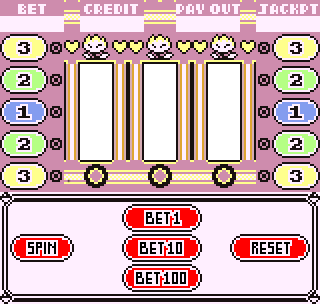
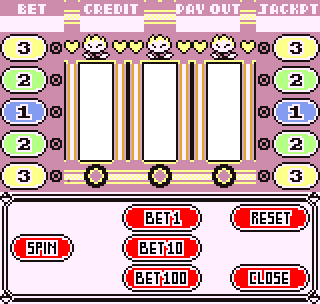
Added exit button

Changed region(s): [[0.7188, 0.6513, 0.9688, 0.977]]

diff --git a/slotmachine/Scripts/game.ts b/slotmachine/Scripts/game.ts
@@ -7,6 +7,7 @@ var background: createjs.Bitmap;
 var spinButton: createjs.Bitmap;
 var disabledButton: createjs.Bitmap;
 var resetButton: createjs.Bitmap;
+var closeButton: createjs.Bitmap;
 var bet1Button: createjs.Bitmap;
 var bet10Button: createjs.Bitmap;
 var bet100Button: createjs.Bitmap;
@@ -93,12 +94,22 @@ function createUI(): void {
     //Reset Button
     resetButton = new createjs.Bitmap("assets/images/ResetButton.png");
     resetButton.x = 230;
-    resetButton.y = 234;
+    resetButton.y = 204;
     game.addChild(resetButton);
 
     resetButton.addEventListener("click", resetAll);
     resetButton.addEventListener("mouseover", resetButtonOver);
     resetButton.addEventListener("mouseout", resetButtonOut);
+
+    //Close Button
+    closeButton = new createjs.Bitmap("assets/images/CloseButton.png");
+    closeButton.x = 230;
+    closeButton.y = 264;
+    game.addChild(closeButton);
+
+    closeButton.addEventListener("click", closeGame);
+    closeButton.addEventListener("mouseover", closeButtonOver);
+    closeButton.addEventListener("mouseout", closeButtonOut);
 
     //Bet 1 Button
     bet1Button = new createjs.Bitmap("assets/images/Bet1Button.png");
@@ -163,81 +174,90 @@ function createUI(): void {
     game.addChild(playerMoneyText);
 } //function createUI ends
 
-// Event handlers
+// Event handlers/////////////////////////////////////////////////////////////////////////////////
+/* This function sets the reset button to be 0% transparent when the mouse leaves it*/
 function spinButtonOut() {
     spinButton.alpha = 1.0;
 } //function spinButtonOut ends
 
+/* This function sets the spin button to be 99% transparent when the mouse is hovering over it*/
 function spinButtonOver() {
     spinButton.alpha = 0.01;
 } //function spinButtonOut ends
 
+/* This function spins the slot machine*/
 function spinReels() {
-    // Add Spin Reels code here
-    if (playerMoney == 0) {
-        if (confirm("You ran out of Money! \nDo you want to play again?")) {
-            resetAll();
-            showPlayerStats();
-        } //if ends
-    } //if ends
-    else if (playerBet > playerMoney) {
-        alert("You don't have enough Money to place that bet.");
-    } //else if ends
-    else if (playerBet <= playerMoney) {
-        //get what was spun
-        spinResult = Reels();
+    //get what was spun
+    spinResult = Reels();
 
-        //This code is for debugging purposes -- remove before completion!
-        fruits = spinResult[0] + " - " + spinResult[1] + " - " + spinResult[2];
-        console.log(fruits);
+    //get the respecive images for the spin results
+    for(var tile = 0; tile < 3; tile++) {
+        tileContainer[tile].removeAllChildren(); //clear the tileContainer
 
-        for (var tile = 0; tile < 3; tile++) {
-            tileContainer[tile].removeAllChildren();
+        tiles[tile] = new createjs.Bitmap("assets/images/" + spinResult[tile] + ".png");
 
-            tiles[tile] = new createjs.Bitmap("assets/images/" + spinResult[tile] + ".png");
+        tiles[tile].y = 32; //center the image on the reels
 
-            console.log(tiles[tile]); //debugging code
-
-            tiles[tile].y = 32;
-
-            tileContainer[tile].addChild(tiles[tile]);
-        } //for ends
-        determineWinnings();
-        showPlayerStats();
-        betValidate();
-    } //else if ends
+        tileContainer[tile].addChild(tiles[tile]); //display the image on the tileContainer
+    } //for ends
+    determineWinnings(); //determine if the player won or lost
+    showPlayerStats(); //display the results of the spin
+    betValidate(); //ensure the player still has enough money to make the same bet
 } //function spinReels ends
 
+/* This function sets the reset button to be 0% transparent when the mouse leaves it*/
 function resetButtonOut() {
     resetButton.alpha = 1.0;
 } //function resetButtonOut ends
 
+/* This function sets the close button to be 99% transparent when the mouse is hovering over it*/
 function resetButtonOver() {
     resetButton.alpha = 0.01;
 } //function resetButtonOut ends
 
+/* This function sets the close button to be 0% transparent when the mouse leaves it*/
+function closeButtonOut() {
+    closeButton.alpha = 1.0;
+} //function closeButtonOut ends
+
+/* This function sets the reset button to be 99% transparent when the mouse is hovering over it*/
+function closeButtonOver() {
+    closeButton.alpha = 0.01;
+} //function closeButtonOut ends
+
+/* This function closes the game when the close button is clicked*/
+function closeGame() {
+    window.open('', '_self').close();
+} //function closeGame ends
+
+/* This function sets the bet 1 button to be 0% transparent when the mouse leaves it*/
 function bet1ButtonOut() {
     bet1Button.alpha = 1.0;
 } //function bet1ButtonOut ends
 
+/* This function sets the bet 1 button to be 99% transparent when the mouse is hovering over it*/
 function bet1ButtonOver() {
     bet1Button.alpha = 0.01;
 } //function bet1ButtonOut ends
 
+/* This function sets the player's bet to 1 and displays the bet*/
 function bet1() {
     playerBet = 1;
     playerBetText.text = playerBet.toString();
     betValidate();
 } //function bet1 ends
 
+/* This function sets the bet 10 button to be 0% transparent when the mouse leaves it*/
 function bet10ButtonOut() {
     bet10Button.alpha = 1.0;
 } //function bet10ButtonOut ends
 
+/* This function sets the bet 10 button to be 99% transparent when the mouse is hovering over it*/
 function bet10ButtonOver() {
     bet10Button.alpha = 0.01;
 } //function bet10ButtonOut ends
 
+/* This function sets the player's bet to 10 and displays the bet*/
 function bet10() {
     playerBet = 10;
     playerBetText.text = playerBet.toString();
@@ -277,8 +297,8 @@ function betValidate() {
 function showPlayerStats() {
     winRatio = winNumber / turn;
 
-    jackpotText.text = jackpot.toString();
-    playerMoneyText.text = playerMoney.toString();
+    jackpotText.text = jackpot.toString(); //display the jackpot value
+    playerMoneyText.text = playerMoney.toString(); //display the player's money
 } //function showPlayerStats ends
 
 /* Utility function to reset all fruit tallies */
